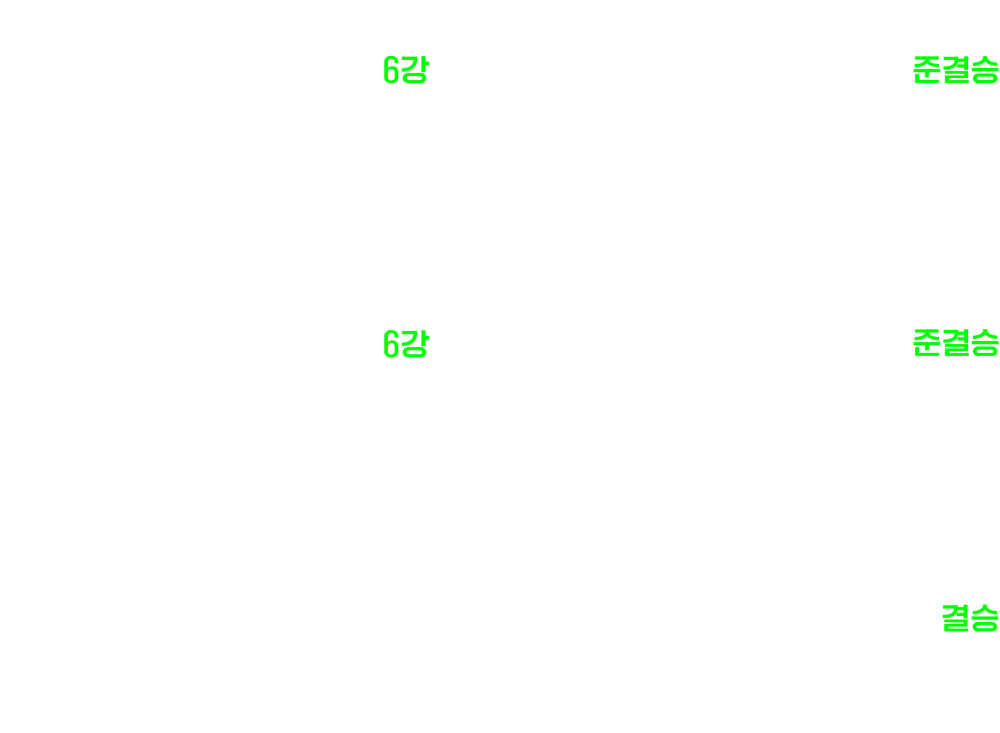
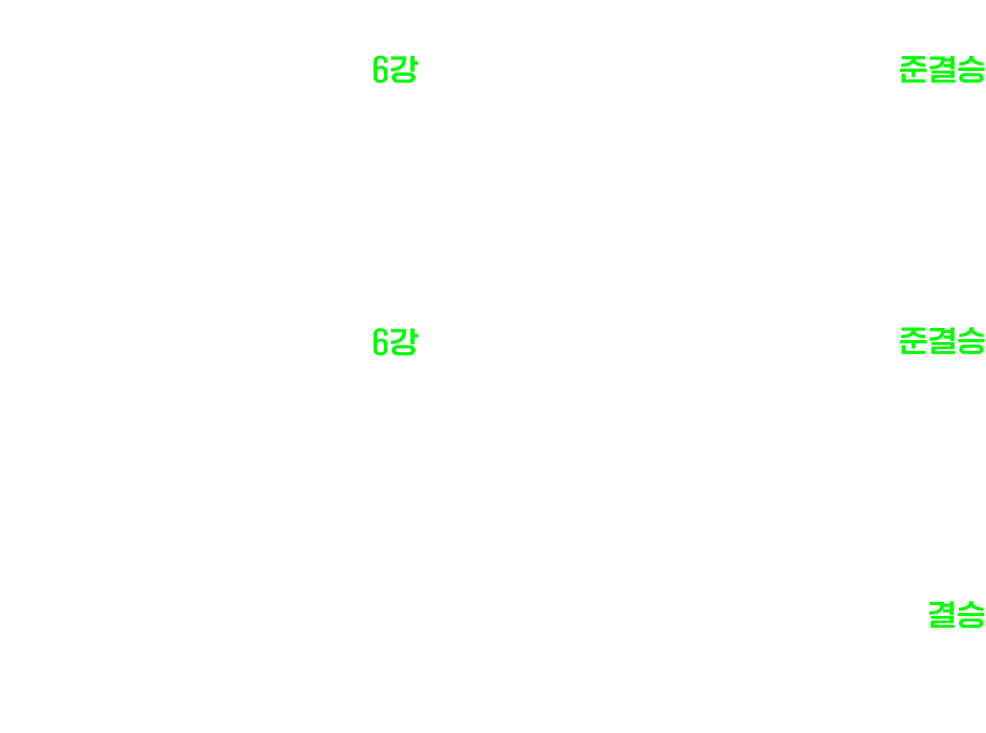
Feat: Update league schedule

diff --git a/main.dart.js b/main.dart.js
@@ -34409,7 +34409,7 @@ s=r.d
 s===$&&A.c()
 return new A.tV(p,A.YR(A.c_(q,A.d3(A.a([B.CM,new A.E6(r.f,q),new A.F9(r.r,q),new A.AC(r.w,s,q),new A.BM(r.x,q),B.y3,B.xK],t.p),B.F,q,B.D),B.h,q,q,q,q,q,q,q),n,B.bs),o,r.y)},
 WW(a){var s=this,r=null
-return new A.Ak(B.lu,200,A.d3(A.a([B.FP,A.ee(!1,!0,B.Kk,r,!0,r,r,r,r,r,r,r,r,r,new A.a3o(s,a),r,r,r,r),B.jW,A.ee(!1,!0,B.Kq,r,!0,r,r,r,r,r,r,r,r,r,new A.a3p(s,a),r,r,r,r),B.jW,A.ee(!1,!0,B.Km,r,!0,r,r,r,r,r,r,r,r,r,new A.a3q(s,a),r,r,r,r),B.jW,A.ee(!1,!0,B.Ko,r,!0,r,r,r,r,r,r,r,r,r,new A.a3r(s,a),r,r,r,r)],t.p),B.F,r,B.D),r)},
+return new A.Ak(B.lu,200,A.d3(A.a([B.FQ,A.ee(!1,!0,B.Kk,r,!0,r,r,r,r,r,r,r,r,r,new A.a3o(s,a),r,r,r,r),B.jW,A.ee(!1,!0,B.Kq,r,!0,r,r,r,r,r,r,r,r,r,new A.a3p(s,a),r,r,r,r),B.jW,A.ee(!1,!0,B.Km,r,!0,r,r,r,r,r,r,r,r,r,new A.a3q(s,a),r,r,r,r),B.jW,A.ee(!1,!0,B.Ko,r,!0,r,r,r,r,r,r,r,r,r,new A.a3r(s,a),r,r,r,r)],t.p),B.F,r,B.D),r)},
 V9(a){var s=this,r=null,q="assets/main_page/league_logo.png",p=t.w,o=a.u(p).f.a.a>800?105:65,n=a.u(p).f.a.a>800?A.bw(A.bG(q,r,r,r),54,273):A.bw(A.bG(q,r,r,r),27,135),m=a.u(p).f.a.a>800?A.eK(A.a([A.ee(!1,!0,B.Kl,r,!0,r,r,r,r,r,r,r,r,r,new A.a3j(s),r,r,r,r),B.jV,A.ee(!1,!0,B.Kr,r,!0,r,r,r,r,r,r,r,r,r,new A.a3k(s),r,r,r,r),B.jV,A.ee(!1,!0,B.Kn,r,!0,r,r,r,r,r,r,r,r,r,new A.a3l(s),r,r,r,r),B.jV,A.ee(!1,!0,B.Kp,r,!0,r,r,r,r,r,r,r,r,r,new A.a3m(s),r,r,r,r)],t.p),B.F,B.D,B.a7):B.uJ,l=t.p
 m=A.j0(A.c_(r,A.eK(A.a([new A.cF(B.yq,n,r),new A.cF(B.yl,m,r)],l),B.F,B.dG,B.a7),r,B.d5,r,r,r,r,r,r),r,r)
 n=A.a([a.u(p).f.a.a>800?B.uJ:A.ee(!1,!0,B.yS,r,!0,r,r,r,r,r,r,r,r,r,new A.a3n(s),r,r,r,r),B.bn],l)
@@ -34489,10 +34489,10 @@ l=A.d3(A.a([m,A.c_(p,p,p,p,new A.e7(p,p,p,p,p,new A.kY(B.bY,B.ew,B.bT,A.a([B.j,A
 m=A.eK(A.a([q.wn(a,u.v,!0),B.bn,q.wn(a,u.t,!1),B.bn,q.wn(a,"assets/main_page/event_info/inner_screen_shot_3.png",!0)],k),B.F,B.fE,B.a7)
 s=a.u(n).f.a.a>1250?1247:a.u(n).f.a.a*0.998
 r=a.u(n).f.a.a>1250?544:a.u(n).f.a.a*0.435
-s=A.d3(A.a([B.Kg,B.uI,B.Ks,B.FI,m,B.Fy,A.c_(p,A.bG("assets/main_page/event_info/search_inner_desktop.png",p,p,p),p,B.vT,p,r,p,p,p,s)],k),B.F,p,B.D)
+s=A.d3(A.a([B.Kg,B.uH,B.Ks,B.FJ,m,B.Fz,A.c_(p,A.bG("assets/main_page/event_info/search_inner_desktop.png",p,p,p),p,B.vT,p,r,p,p,p,s)],k),B.F,p,B.D)
 n=a.u(n).f
 r=q.a.d
-return A.o9(B.bY,A.a([l,A.d3(A.a([B.FO,s,B.FB,A.c_(p,A.d3(A.a([B.DM,B.FG,A.YR(A.eK(A.a([B.bn,q.qg(a,u.O),q.qg(a,u.W),q.qg(a,u.J),q.qg(a,u.U),B.bn],k),B.F,B.D,B.a7),r,B.ab),B.FK],k),B.aV,p,B.D),p,B.d5,p,p,p,p,p,n.a.a),A.eK(A.a([A.ee(!1,!0,A.bG("assets/main_page/event_info/icon_arrow_left.webp",p,44,44),p,!0,p,p,p,p,p,p,p,p,p,q.gTD(q),p,p,p,p),B.Ft,A.ee(!1,!0,A.bG("assets/main_page/event_info/icon_arrow_right.webp",p,44,44),p,!0,p,p,p,p,p,p,p,p,p,q.gTF(),p,p,p,p)],k),B.F,B.fE,B.a7),B.Fw],k),B.F,p,B.D)],k),B.bR,o)},
+return A.o9(B.bY,A.a([l,A.d3(A.a([B.FP,s,B.FD,A.c_(p,A.d3(A.a([B.DM,B.FI,A.YR(A.eK(A.a([B.bn,q.qg(a,u.O),q.qg(a,u.W),q.qg(a,u.J),q.qg(a,u.U),B.bn],k),B.F,B.D,B.a7),r,B.ab),B.FL],k),B.aV,p,B.D),p,B.d5,p,p,p,p,p,n.a.a),A.eK(A.a([A.ee(!1,!0,A.bG("assets/main_page/event_info/icon_arrow_left.webp",p,44,44),p,!0,p,p,p,p,p,p,p,p,p,q.gTD(q),p,p,p,p),B.Ft,A.ee(!1,!0,A.bG("assets/main_page/event_info/icon_arrow_right.webp",p,44,44),p,!0,p,p,p,p,p,p,p,p,p,q.gTF(),p,p,p,p)],k),B.F,B.fE,B.a7),B.Fw],k),B.F,p,B.D)],k),B.bR,o)},
 qg(a,b){var s=t.w,r=a.u(s).f.a.a>1200?380:a.u(s).f.a.a*0.317
 s=a.u(s).f.a.a>1200?451:a.u(s).f.a.a*0.376
 return new A.cF(B.b6,A.bw(A.bG(b,B.ad,null,null),s,r),null)},
@@ -34517,7 +34517,7 @@ r=A.bw(A.bG(u.t,i,i,i),q.a.a*1.067,r.a.a*0.497)
 q=a.u(f).f
 p=a.u(f).f
 o=t.p
-q=A.d3(A.a([B.FJ,B.Kf,B.FR,B.Kj,B.FF,A.YR(new A.cF(B.yk,A.eK(A.a([B.uE,s,B.uD,r,B.uD,A.bw(A.bG(h,i,i,i),p.a.a*1.067,q.a.a*0.497),B.uE],o),B.F,B.D,B.a7),i),i,B.ab)],o),B.F,i,B.D)
+q=A.d3(A.a([B.FK,B.Kf,B.FR,B.Kj,B.FH,A.YR(new A.cF(B.yk,A.eK(A.a([B.uE,s,B.uD,r,B.uD,A.bw(A.bG(h,i,i,i),p.a.a*1.067,q.a.a*0.497),B.uE],o),B.F,B.D,B.a7),i),i,B.ab)],o),B.F,i,B.D)
 p=a.u(f).f
 r=a.u(f).f
 s=a.u(f).f
@@ -34544,7 +34544,7 @@ n=a.u(f).f
 m=A.bw(A.bG(u.J,i,i,i),n.a.a*0.376,m.a.a*0.317)
 n=a.u(f).f
 f=a.u(f).f
-return A.o9(B.bY,A.a([e,A.d3(A.a([q,p,A.c_(i,A.d3(A.a([B.DL,B.uI,A.YR(new A.cF(B.yj,A.eK(A.a([B.bn,new A.cF(B.dd,j,i),new A.cF(B.dd,l,i),new A.cF(B.dd,m,i),new A.cF(B.dd,A.bw(A.bG(u.U,i,i,i),f.a.a*0.376,n.a.a*0.317),i),B.bn],o),B.F,B.D,B.a7),i),k,B.ab)],o),B.aV,i,B.D),i,B.d5,i,i,i,i,i,r.a.a),B.FN],o),B.F,i,B.D)],o),B.bR,g)}}
+return A.o9(B.bY,A.a([e,A.d3(A.a([q,p,A.c_(i,A.d3(A.a([B.DL,B.uH,A.YR(new A.cF(B.yj,A.eK(A.a([B.bn,new A.cF(B.dd,j,i),new A.cF(B.dd,l,i),new A.cF(B.dd,m,i),new A.cF(B.dd,A.bw(A.bG(u.U,i,i,i),f.a.a*0.376,n.a.a*0.317),i),B.bn],o),B.F,B.D,B.a7),i),k,B.ab)],o),B.aV,i,B.D),i,B.d5,i,i,i,i,i,r.a.a),B.FO],o),B.F,i,B.D)],o),B.bR,g)}}
 A.a2m.prototype={
 $0(){var s=0,r=A.a_(t.H)
 var $async$$0=A.a0(function(a,b){if(a===1)return A.X(b,r)
@@ -34602,14 +34602,14 @@ return A.c_(s,A.d3(A.a([B.uG,A.c_(s,A.bG("assets/main_page/map_info/map_info_des
 A.BO.prototype={
 J(a){var s=null,r=t.w,q=a.u(r).f,p=a.u(r).f
 r=a.u(r).f
-return A.c_(s,A.d3(A.a([B.FC,A.bw(A.bG("assets/main_page/map_info/map_info_mobile.png",B.ad,s,s),r.a.a*1.626,p.a.a*0.879),B.FM],t.p),B.F,s,B.D),B.j,s,s,s,this.c,s,s,q.a.a)}}
+return A.c_(s,A.d3(A.a([B.FE,A.bw(A.bG("assets/main_page/map_info/map_info_mobile.png",B.ad,s,s),r.a.a*1.626,p.a.a*0.879),B.FN],t.p),B.F,s,B.D),B.j,s,s,s,this.c,s,s,q.a.a)}}
 A.E6.prototype={
 J(a){var s=this.c
 return a.u(t.w).f.a.a>800?new A.E7(s,null):new A.E8(s,null)}}
 A.E7.prototype={
 J(a){var s,r,q=null,p=t.w,o=a.u(p).f,n=a.u(p).f
 o=A.bw(A.bG("assets/main_page/schedule_info/schedule_title_desktop.jpg",B.ad,q,q),n.a.a*0.24,o.a.a)
-n=a.u(p).f.a.a>1200?1000:a.u(p).f.a.a*0.833
+n=a.u(p).f.a.a>1200?986:a.u(p).f.a.a*0.822
 s=a.u(p).f.a.a>1200?733:a.u(p).f.a.a*0.611
 n=A.c_(q,A.bG("assets/main_page/schedule_info/schedule_date_desktop.png",q,q,q),q,B.vS,q,s,q,q,q,n)
 s=a.u(p).f.a.a>1200?1180:a.u(p).f.a.a*0.983
@@ -34617,13 +34617,13 @@ r=a.u(p).f.a.a>1200?635:a.u(p).f.a.a*0.529
 s=A.c_(q,A.bG("assets/main_page/schedule_info/schedule_graph_1_desktop.png",q,q,q),q,B.kw,q,r,q,q,q,s)
 r=a.u(p).f.a.a>1200?1180:a.u(p).f.a.a*0.983
 p=a.u(p).f.a.a>1200?635:a.u(p).f.a.a*0.529
-return A.c_(q,A.d3(A.a([o,B.uH,n,B.Fz,s,B.uH,A.c_(q,A.bG("assets/main_page/schedule_info/schedule_graph_2_desktop.png",q,q,q),q,B.kw,q,p,q,q,q,r),B.FE],t.p),B.F,this.c,B.D),B.j,q,q,q,q,q,q,q)}}
+return A.c_(q,A.d3(A.a([o,B.FC,n,B.Fy,s,B.FA,A.c_(q,A.bG("assets/main_page/schedule_info/schedule_graph_2_desktop.png",q,q,q),q,B.kw,q,p,q,q,q,r),B.FG],t.p),B.F,this.c,B.D),B.j,q,q,q,q,q,q,q)}}
 A.E8.prototype={
 J(a){var s=null,r=t.w,q=a.u(r).f,p=a.u(r).f
 q=A.bw(A.bG("assets/main_page/schedule_info/schedule_title_mobile.jpg",B.ad,s,s),p.a.a*0.272,q.a.a)
 p=a.u(r).f
 r=a.u(r).f
-return A.c_(s,A.d3(A.a([q,B.FH,A.bw(A.bG("assets/main_page/schedule_info/schedule_date_mobile.png",B.ad,s,s),r.a.a*3.336,p.a.a*0.838),B.FQ],t.p),B.F,this.c,B.D),B.j,s,s,s,s,s,s,s)}}
+return A.c_(s,A.d3(A.a([q,B.uI,A.bw(A.bG("assets/main_page/schedule_info/schedule_date_mobile.png",B.ad,s,s),r.a.a*3.359,p.a.a*0.846),B.uI],t.p),B.F,this.c,B.D),B.j,s,s,s,s,s,s,s)}}
 A.F9.prototype={
 J(a){var s=this.c
 return a.u(t.w).f.a.a>800?new A.Fa(s,null):new A.Fb(s,null)}}
@@ -34636,7 +34636,7 @@ J(a){var s=null,r=t.w,q=a.u(r).f,p=a.u(r).f
 q=A.bw(A.bG("assets/main_page/ticket_info/ticket_info_1_mobile.jpg",B.ad,s,s),p.a.a*0.9,q.a.a)
 p=a.u(r).f
 r=a.u(r).f
-return A.c_(s,A.d3(A.a([q,B.FD,A.bw(A.bG("assets/main_page/ticket_info/ticket_info_2_mobile.png",s,s,s),r.a.a*0.574,p.a.a*0.846),B.FL],t.p),B.F,this.c,B.D),B.j,s,s,s,s,s,s,s)}}
+return A.c_(s,A.d3(A.a([q,B.FF,A.bw(A.bG("assets/main_page/ticket_info/ticket_info_2_mobile.png",s,s,s),r.a.a*0.574,p.a.a*0.846),B.FM],t.p),B.F,this.c,B.D),B.j,s,s,s,s,s,s,s)}}
 A.a_T.prototype={
 gF(a){var s=this,r=s.d
 return r==null?s.d=B.c.a5(s.a,s.b,s.c):r},
@@ -60727,12 +60727,12 @@ B.dt=new A.b1(9,"PR")
 B.zn=new A.BB(1,"drawer")
 B.zo=new A.rw(null,null,null,null,null,null,null,null,null,null,null,null,null,null,null)
 B.z5=new A.kS(B.ks,90,16,null,null)
-B.FA=new A.ba(null,20,null,null)
+B.FB=new A.ba(null,20,null,null)
 B.uV=new A.o(!0,B.h,null,null,null,null,17,null,null,null,null,null,null,null,null,null,null,null,null,null,null,null,null,null,null,null)
 B.uX=new A.cz("James@tjlabscorp.com",null,B.uV,null,null,null)
 B.uF=new A.ba(null,10,null,null)
 B.uY=new A.cz("https://tjlabscorp.com/",null,B.uV,null,null,null)
-B.zq=A.a(s([B.z5,B.FA,B.uX,B.uF,B.uY]),t.p)
+B.zq=A.a(s([B.z5,B.FB,B.uX,B.uF,B.uY]),t.p)
 B.zr=A.a(s([0,1]),t.v)
 B.f2=new A.ew(0)
 B.yC=new A.ew(1)
@@ -62017,27 +62017,27 @@ B.uG=new A.ba(null,110,null,null)
 B.Fv=new A.ba(null,114,null,null)
 B.Fw=new A.ba(null,132,null,null)
 B.Fx=new A.ba(null,152,null,null)
-B.Fy=new A.ba(null,165,null,null)
-B.Fz=new A.ba(null,167,null,null)
-B.uH=new A.ba(null,208,null,null)
-B.FB=new A.ba(null,228,null,null)
-B.FC=new A.ba(null,24,null,null)
-B.uI=new A.ba(null,25,null,null)
-B.FD=new A.ba(null,26,null,null)
-B.FE=new A.ba(null,277,null,null)
-B.FF=new A.ba(null,30,null,null)
-B.FG=new A.ba(null,32,null,null)
+B.Fy=new A.ba(null,162,null,null)
+B.Fz=new A.ba(null,165,null,null)
+B.FA=new A.ba(null,208,null,null)
+B.FC=new A.ba(null,213,null,null)
+B.FD=new A.ba(null,228,null,null)
+B.FE=new A.ba(null,24,null,null)
+B.uH=new A.ba(null,25,null,null)
+B.FF=new A.ba(null,26,null,null)
+B.FG=new A.ba(null,277,null,null)
+B.FH=new A.ba(null,30,null,null)
+B.FI=new A.ba(null,32,null,null)
 B.jW=new A.ba(null,33,null,null)
-B.FH=new A.ba(null,42,null,null)
-B.FI=new A.ba(null,43,null,null)
-B.FJ=new A.ba(null,48,null,null)
-B.FK=new A.ba(null,50,null,null)
-B.FL=new A.ba(null,60,null,null)
-B.FM=new A.ba(null,64,null,null)
-B.FN=new A.ba(null,81,null,null)
-B.FO=new A.ba(null,86,null,null)
-B.FP=new A.ba(null,90,null,null)
-B.FQ=new A.ba(null,91,null,null)
+B.uI=new A.ba(null,38,null,null)
+B.FJ=new A.ba(null,43,null,null)
+B.FK=new A.ba(null,48,null,null)
+B.FL=new A.ba(null,50,null,null)
+B.FM=new A.ba(null,60,null,null)
+B.FN=new A.ba(null,64,null,null)
+B.FO=new A.ba(null,81,null,null)
+B.FP=new A.ba(null,86,null,null)
+B.FQ=new A.ba(null,90,null,null)
 B.FR=new A.ba(null,9,null,null)
 B.uJ=new A.ba(null,null,null,null)
 B.FS=new A.uo(null,null,null,null,null,null,null,null,null,null,null,null,null,null,null,null,null,null,null,null,null,null,null,null,null,null,null,null,null,null)

diff --git a/flutter_service_worker.js b/flutter_service_worker.js
@@ -5,10 +5,10 @@ const CACHE_NAME = 'flutter-app-cache';
 const RESOURCES = {
   "version.json": "c579aa1150e82d735d04816309de21b5",
 "favicon.ico": "7f1c48e700a2eed4f94cf62a3602b427",
-"index.html": "482f295938cb30a8c81ac0ba249aed38",
-"/": "482f295938cb30a8c81ac0ba249aed38",
-"main.dart.js": "da33044a57f28566756a19d8f0f191f7",
-"flutter.js": "1cfe996e845b3a8a33f57607e8b09ee4",
+"index.html": "d028ac28ba1417bcf6fa4a6d7afb2f48",
+"/": "d028ac28ba1417bcf6fa4a6d7afb2f48",
+"main.dart.js": "e7bc3e8e96529367ff2bbdf4bcbe7fc4",
+"flutter.js": "a85fcf6324d3c4d3ae3be1ae4931e9c5",
 "icons/android-chrome-192x192.png": "638419bc5c74569c8ebdad307dc29d4d",
 "icons/apple-touch-icon.png": "b766b6d704bad697373ee9a1f6d049dd",
 "icons/android-chrome-512x512.png": "199243ac6071c0bffc45409b0152d779",
@@ -18,8 +18,6 @@ const RESOURCES = {
 "assets/FontManifest.json": "9aeffcac0a95346eec1407956e481364",
 "assets/packages/cupertino_icons/assets/CupertinoIcons.ttf": "6d342eb68f170c97609e9da345464e5e",
 "assets/fonts/MaterialIcons-Regular.otf": "e7069dfd19b331be16bed984668fe080",
-"assets/assets/main_page/banner_1.webp": "a46f55fb554a4efc61dcd7f4dd7e1761",
-"assets/assets/main_page/search_inner_desktop.webp": "5fbc602e4914b3f7dc9f5db6972be86e",
 "assets/assets/main_page/event_info/search_inner_desktop.png": "0f7e74bca8bc1fb5e1b5e19e6e0093fa",
 "assets/assets/main_page/event_info/inner_use_instruction_1_desktop.webp": "bf448dc88b9b070fcd32a6e168fba8c1",
 "assets/assets/main_page/event_info/inner_use_instruction_4_desktop.webp": "ed0f1e45e99b3ac854d1488adeca88b2",
@@ -33,55 +31,26 @@ const RESOURCES = {
 "assets/assets/main_page/event_info/inner_screen_shot_2.jpg": "ecba1900551ddedb90866e7df1fe0ee5",
 "assets/assets/main_page/event_info/inner_screen_shot_3.jpg": "cfa5fa8c35f8effc6d783d84185664af",
 "assets/assets/main_page/event_info/inner_screen_shot_3.png": "578fe135c92344f2efe8b143ec47c90f",
-"assets/assets/main_page/banner_5_mobile.webp": "fa8dfbe4237376f0c2d1b7427a151251",
 "assets/assets/main_page/ticket_info/ticket_info_desktop.jpg": "976102e6345a0862dd87d97e969a2dd8",
 "assets/assets/main_page/ticket_info/ticket_info_1_mobile.jpg": "f69df6b560c3ab03c5423be715cee010",
 "assets/assets/main_page/ticket_info/ticket_info_2_mobile.png": "38a7fd0b49a013bf4b8b7dcdbf620dc5",
 "assets/assets/main_page/map_mobile.webp": "c9b399eee3a25a55788b367d80f05916",
-"assets/assets/main_page/map_desktop.webp": "1bb738767f3163043fdb883d77bf23f6",
-"assets/assets/main_page/screen_shot_2_desktop.webp": "dc91bc55b0d0e4f98b09807a2315b796",
-"assets/assets/main_page/main_logo.webp": "95130f39b038c15f2f8630bb9f6aa15b",
-"assets/assets/main_page/banner_3_mobile.webp": "0fb095ccb8d139cad308ce835ec01fa6",
-"assets/assets/main_page/search_inner_2x_mobile.webp": "f83bd4b8248ce47ede232dc1331bf2dc",
-"assets/assets/main_page/map_2x_mobile.webp": "1b34ef48e85017d29a076c397471baf8",
-"assets/assets/main_page/banner_6.webp": "d92ce80069998cdc256420c06204b75a",
-"assets/assets/main_page/banner_6_mobile.webp": "bd3da3d2934fbe8ade57cecafa46319c",
-"assets/assets/main_page/screen_shot_3_desktop.webp": "3e01fd538979e4a0ae7662f4d62f2df1",
-"assets/assets/main_page/use_inner_1_desktop.webp": "bf448dc88b9b070fcd32a6e168fba8c1",
-"assets/assets/main_page/tjlabs_logo_desktop.webp": "722d56ca49218f3d0479cba8c5865f0c",
 "assets/assets/main_page/search_inner_3x_mobile.webp": "4212514b0d8441588051301eb51bb5ef",
-"assets/assets/main_page/ticket_price_desktop.webp": "c8cbc81db6f3b23cc5da81f4fb626abe",
-"assets/assets/main_page/screen_shot_1_desktop.webp": "84567b5e035bc24552a157f9c2450e66",
 "assets/assets/main_page/map_info/map_info_mobile.png": "bc5abd57f684938c2248c7b457036898",
 "assets/assets/main_page/map_info/map_info_desktop.png": "5852bba447fffecdcc62810a7bf1f483",
-"assets/assets/main_page/ticket_price_2x_mobile.webp": "e6196847faf1813fed8669e4d4345526",
-"assets/assets/main_page/use_inner_4_desktop.webp": "ed0f1e45e99b3ac854d1488adeca88b2",
-"assets/assets/main_page/use_inner_3_desktop.webp": "49815b82b880da07290d744c54ac89cb",
-"assets/assets/main_page/banner_5.webp": "3119e6f861026e34fbb809a438878c1f",
-"assets/assets/main_page/banner_1_mobile.webp": "642bee24d10b9efafb458f10c6c0a3ad",
 "assets/assets/main_page/play_store_button_3x_mobile.webp": "714805cecc6b468c40693954d8d9daee",
 "assets/assets/main_page/app_store_button_3x_mobile.webp": "3f8e62a79886de1faf1996aeab772070",
-"assets/assets/main_page/use_inner_2_desktop.webp": "b008b8ec31fd01bd954f570d6c07abbe",
-"assets/assets/main_page/banner_4_mobile.webp": "bd48fe70ab25dc49622ddfd34540a39d",
-"assets/assets/main_page/banner_4.webp": "8b569595f028644a82cf0988d2c42cb4",
 "assets/assets/main_page/contact_info/tjlabs_logo.png": "151140e84fcc503f493765b2807bc618",
-"assets/assets/main_page/icon_arrow_left.webp": "af131ac91d88e2cb0d386113f10b2b91",
 "assets/assets/main_page/main_banner/main_banner_mobile.jpg": "787afe3209a761a70bbf1e23161ad952",
 "assets/assets/main_page/main_banner/main_banner_desktop.jpg": "1c377dba09aa7b54d4597d0c0d8b9600",
-"assets/assets/main_page/banner_3.webp": "30a0d565a4b0bcd60619ebc3fb454145",
-"assets/assets/main_page/icon_arrow_right.webp": "979c6b8cc6d6313e47c368f31f4ebb41",
-"assets/assets/main_page/schedule_2x_mobile.webp": "a5ed19bb9854af7c4f65cd8795a1da43",
 "assets/assets/main_page/schedule_info/schedule_title_mobile.jpg": "f6f23908898970a75a07c62578b197c0",
-"assets/assets/main_page/schedule_info/schedule_date_desktop.png": "a1b41c4ea692aa7a921832699c9360ce",
+"assets/assets/main_page/schedule_info/schedule_date_desktop.png": "86032d8c9209540ba4cb59fb41380740",
 "assets/assets/main_page/schedule_info/schedule_graph_mobile.png": "7c47ec0e95793daea23a9e6ae56726f4",
 "assets/assets/main_page/schedule_info/schedule_graph_1_desktop.png": "48e605853738ae2de5a8908bac154d92",
 "assets/assets/main_page/schedule_info/schedule_title_desktop.jpg": "7c7a809d9728d8cc671b9ff1596cf559",
-"assets/assets/main_page/schedule_info/schedule_date_mobile.png": "ad2321a9ed4b4829d49852e5b49117b1",
+"assets/assets/main_page/schedule_info/schedule_date_mobile.png": "48d6128d6b54e791a3f3ead3dff3c68d",
 "assets/assets/main_page/schedule_info/schedule_graph_2_desktop.png": "ee83df4124227209040363c557852c86",
-"assets/assets/main_page/schedule_desktop.webp": "1d8dc21761c348f7dae0c61c9fded7e7",
-"assets/assets/main_page/banner_2_mobile.webp": "252277ad8da5ca576c9ff1205c8809ea",
 "assets/assets/main_page/league_logo.png": "e51bdc51f64c5877331065e6462de3bb",
-"assets/assets/main_page/banner_2.webp": "7800409847acf9acb6f68ccd284b9471",
 "assets/assets/font/Pretendard/Pretendard-Regular.otf": "46b0c48afd8b0ddc2ed4fcbb2df81d8b",
 "assets/assets/font/Pretendard/Pretendard-Black.otf": "6bc3f501ba4e736b706074a29826ec0a",
 "assets/assets/font/Pretendard/Pretendard-Medium.otf": "9ac30a1a68a5140a58b23aaf8025f1db",

diff --git a/flutter.js b/flutter.js
@@ -9,6 +9,21 @@ _flutter.loader = null;
 
 (function () {
   "use strict";
+
+  const baseUri = ensureTrailingSlash(getBaseURI());
+
+  function getBaseURI() {
+    const base = document.querySelector("base");
+    return (base && base.getAttribute("href")) || "";
+  }
+
+  function ensureTrailingSlash(uri) {
+    if (uri == "") {
+      return uri;
+    }
+    return uri.endsWith("/") ? uri : `${uri}/`;
+  }
+
   /**
    * Wraps `promise` in a timeout of the given `duration` in ms.
    *
@@ -109,8 +124,7 @@ _flutter.loader = null;
       }
       const {
         serviceWorkerVersion,
-        serviceWorkerUrl = "flutter_service_worker.js?v=" +
-          serviceWorkerVersion,
+        serviceWorkerUrl = `${baseUri}flutter_service_worker.js?v=${serviceWorkerVersion}`,
         timeoutMillis = 4000,
       } = settings;
 
@@ -228,7 +242,7 @@ _flutter.loader = null;
      * Returns undefined when an `onEntrypointLoaded` callback is supplied in `options`.
      */
     async loadEntrypoint(options) {
-      const { entrypointUrl = "main.dart.js", onEntrypointLoaded } =
+      const { entrypointUrl = `${baseUri}main.dart.js`, onEntrypointLoaded } =
         options || {};
 
       return this._loadEntrypoint(entrypointUrl, onEntrypointLoaded);

diff --git a/index.html b/index.html
@@ -35,7 +35,7 @@
 
     <script>
       // The value below is injected by flutter build, do not touch.
-      var serviceWorkerVersion = '453473180';
+      var serviceWorkerVersion = '4276052616';
     </script>
     <!-- This script adds the flutter initialization JS code -->
     <script src="flutter.js" defer></script>
